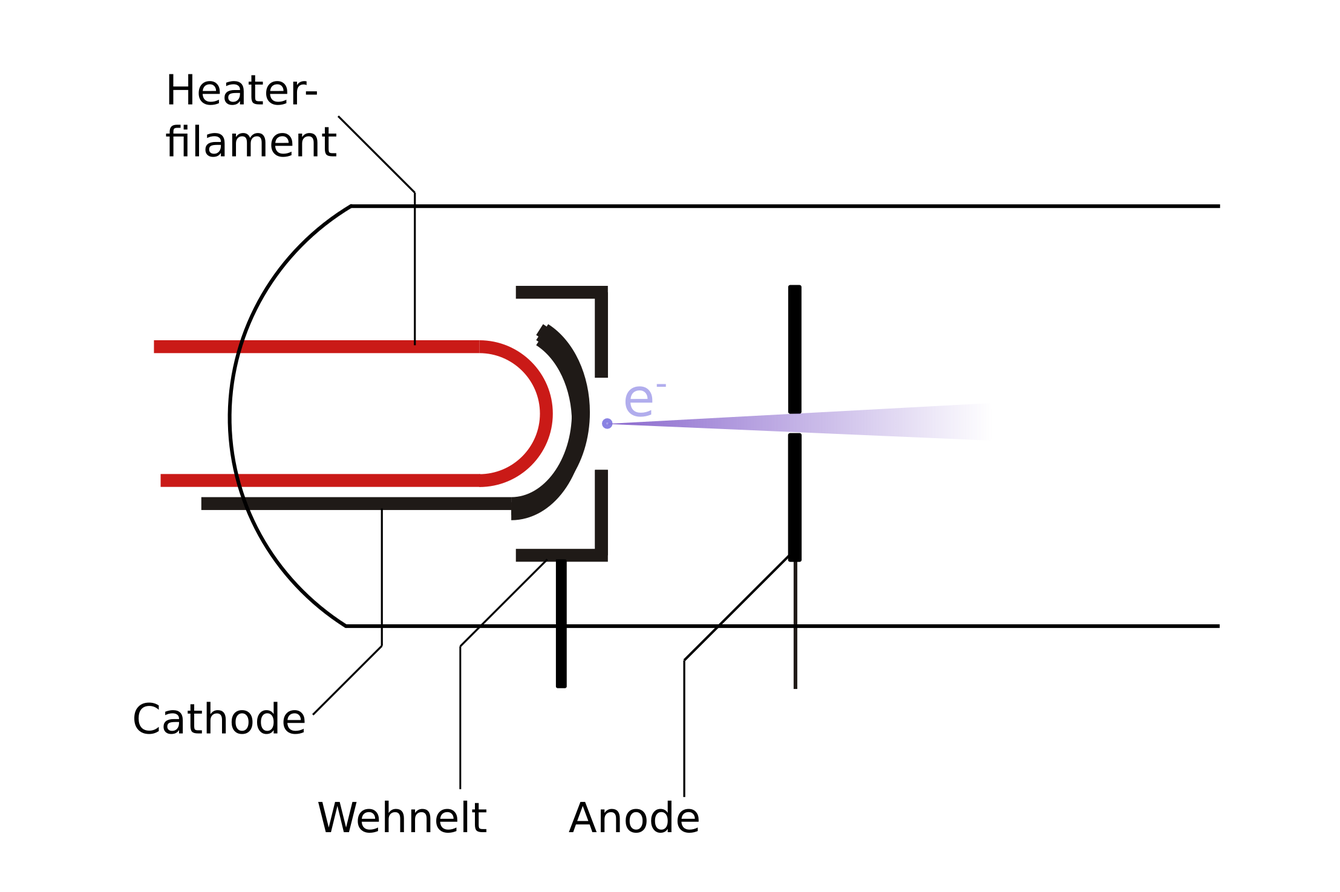
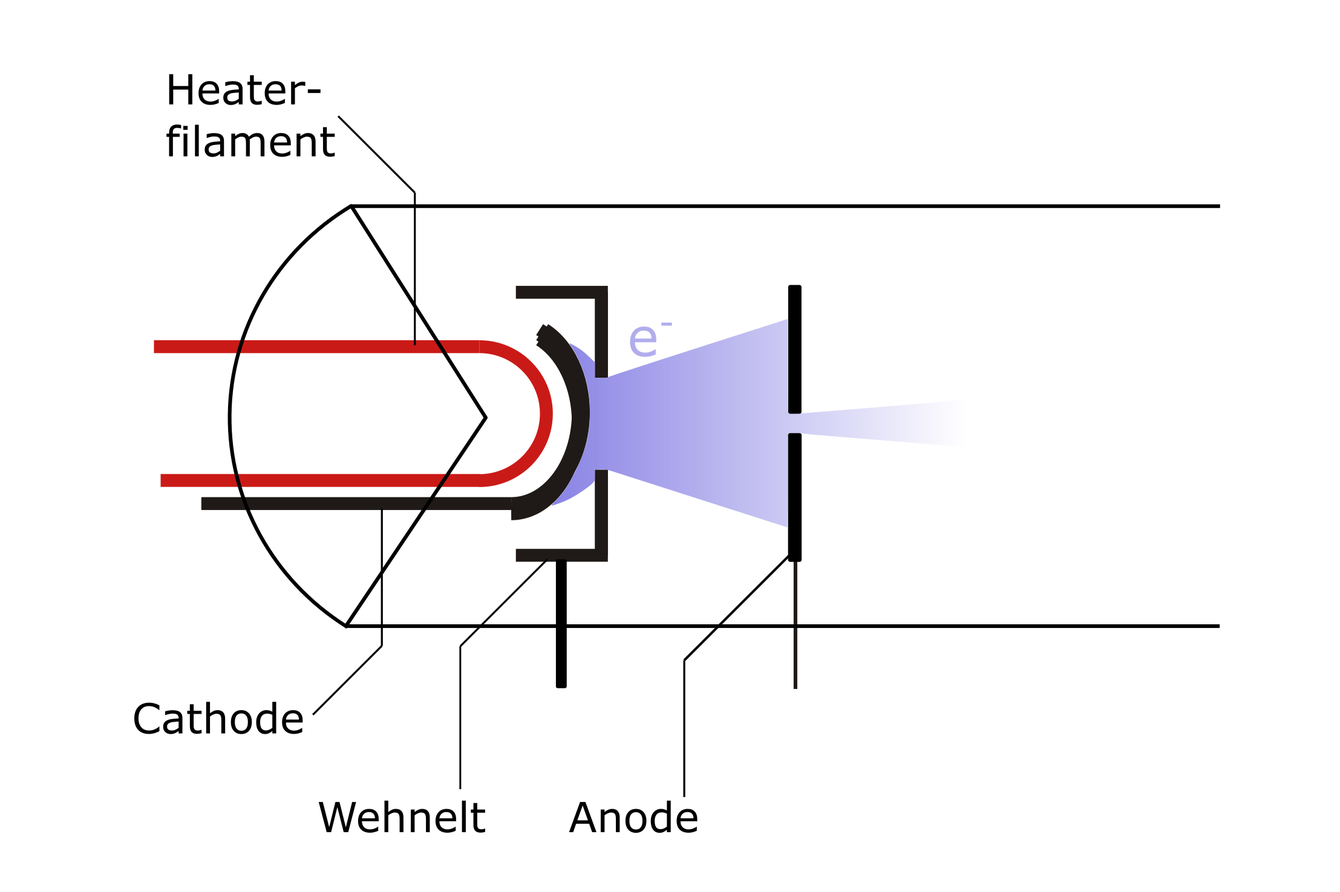
Corrections for CRT-Basics

diff --git a/Chapters/CRT-Basics/CRT-Basics.tex b/Chapters/CRT-Basics/CRT-Basics.tex
@@ -5,16 +5,14 @@
 \chapter{Cathodic Ray Tube Basics}
 \label{ch:Cathodic Ray Tube Basics}
 
-This section features a quick explanation what a CRT is and what its main components are, followed by a more detailed description on how these components are implemented in the CRT Heerlen D14-363GY, which was used in this project. It ends with a description of the important characteristics of the CRT and the requirement the theory poses on them.
-This chapter features a quick explanation what a Cathodic Ray Tube (CRT) is and what its main components are. This is followed by a more detailed description on how the individual components are implemented in our used CRT, a Heerlen D14-363GY. The chapter ends with a description of the important characteristics of the CRT and the requirement the theory poses on them.
+This chapter features a quick explanation what a Cathodic Ray Tube (CRT) is and what its main components are. This is followed by a more detailed description on how the individual components are implemented in our used CRT, a Heerlen D14-363GY. The chapter ends with a description of the important characteristics of the CRT and the requirement the theory poses on them.\correction{Thomas correction accepted}
 
 \section{Underlying Physics}
 \correction{this section is sometimes confusing and already deals with out CRT}
 
-Wikipedia states: ``The cathode-ray tube (CRT) is a vacuum tube that contains one or more electron guns and a phosphorescent screen and is used to display images. It modulates, accelerates, and deflects electron beam(s) onto the screen to create the images.''
 
 Wikipedia states: ``The cathode-ray tube (CRT) is a vacuum tube that contains one or more electron guns, while a phosphorescent screen and is used to display images. It modulates, accelerates, and deflects electron beam(s) onto the screen to create the images.''
-\suggestion{you can probably explain it in your own words better}
+\suggestion{you can probably explain it in your own words better -> maybe but I wanted some generally excepted definition (for example this one includes CRTs with multiple electron guns, which I was not aware of)}
 
 There are three vital components to accomplish this feat: the electron gun, the electron lens and the deflection plates.
 
@@ -24,12 +22,15 @@ There are three vital components to accomplish this feat: the electron gun, the 
 	\caption{Schematic of an electron gun}
 	\label{fig:electrongun}
 \end{figure}
-\correction{let e- come form cathode and not point source in mid air, cathode could be a bit smaller}
+\correction{let e- come form cathode and not point source in mid air, cathode could be a bit smaller -> Done}
 
-The electron gun generates free electrons from a cathode material, accelerates them onto an anode and thereby produces an electron beam (see \cref{fig:electrongun}). One important characteristic in the selection of a cathode material is a low work function. It denotes the amount of energy needed to extract one electron from the material. There are two ways to overcome this energy barrier in an electron gun; one can either apply a strong electric field(``field emission'', ``cold cathode'')  as sen in \cref{fig:coldcathode}. \correction{explain why it has to be a sharp tip already here since it is shown in the picture} Or one can heat the material until some electrons have enough thermal energy to overcome the energy barrier (``thermal emission'', ``hot cathode'', \cref{fig:hotcathode}).
+Thomas: The electron gun generates free electrons from a cathode material, accelerates them onto an anode and thereby produces an electron beam (see \cref{fig:electrongun}). One important characteristic in the selection of a cathode material is a low work function. It denotes the amount of energy needed to extract one electron from the material. There are two ways to overcome this energy barrier in an electron gun; one can either apply a strong electric field(``field emission'', ``cold cathode'')  as sen in \cref{fig:coldcathode}. \correction{explain why it has to be a sharp tip already here since it is shown in the picture} Or one can heat the material until some electrons have enough thermal energy to overcome the energy barrier (``thermal emission'', ``hot cathode'', \cref{fig:hotcathode}).
 
-The electron gun extracts electrons from a cathode material, accelerates them onto a perforated anode and thereby produces a free electron beam (see \cref{fig:electrongun}). One important characteristic in the selection of a cathode material is a low work function. It denotes the amount of energy needed to extract one electron from the material. There are two ways to overcome this energy barrier in an electron gun; one can either overcompensate it by applying a strong electric field (``field emission'', ``cold cathode'', \cref{fig:coldcathode}); or one can heat the material until some electrons have enough thermal energy to overcome the energy barrier (``thermal emission'', ``hot cathode'', \cref{fig:hotcathode}). For our CRT, only thermal emission is relevant, more detail on this will be added later along with the description of our cathode's design. 
-For our CRT uses a hot cathode, more detail on this will be added later along with the description of our cathode's design. 
+The electron gun generates free electrons from a cathode material, accelerates them onto an anode and thereby produces an electron beam (see \cref{fig:electrongun}). One important characteristic in the selection of a cathode material is a low work function. It denotes the amount of energy needed to extract one electron from the material. There are two ways to overcome this energy barrier in an electron gun; one can either apply a strong electric field(``field emission'', ``cold cathode'')  as seen in \cref{fig:coldcathode}. Or one can heat the material until some electrons have enough thermal energy to overcome the energy barrier (``thermal emission'', ``hot cathode'', \cref{fig:hotcathode}).
+In the case of the cold cathode, a cathode with a sharp tip is used, because  the electric field on the surface of a charged conductor is always strongest near sharp points. This causes the electrons to be emitted from the tip and makes for a very point-like electron source.
+
+
+As our CRT uses a hot cathode, more detail on this will be added later along with the description of our cathode's design. \correction{Thomas' correction accepted}
 
 \begin{figure}
 	\centering
@@ -51,22 +52,26 @@ For our CRT uses a hot cathode, more detail on this will be added later along wi
 	\label{fig:cathodes}
 \end{figure}
 
-The cathode itself is housed in a so-called Wehnelt cylinder, as the name suggests it is conducting cylinder which is set to a slightly more negative potential than the cathode itself. This part implements two features; firstly it condenses the emitted electrons, leading to a smaller spot size, i.e. making the cathode a more point-like electron source. Secondly it enables us to regulate the beam current, the more negative the Wehnelt potential is, the less electrons are emitted by the electron gun. As we make the Wehnelt potential more positive, the beam current increases and continues to rise even after it is more positive than the cathode itself. However the spot size reduction is lost in the process, along with the ability to properly focus the beam with electron optics.
-Normally the cathode itself is covered in beam direction in a so-called Wehnelt cylinder. Which is a conducting cylinder set to a slightly more negative potential than the cathode. This part implements two features; firstly it condenses the emitted electrons, leading to a smaller spot size, i.e. making the cathode a more point-like electron source. Secondly it enables us to regulate the beam current, the more negative the Wehnelt potential is, the less electrons are emitted by the electron gun. As we make the Wehnelt potential more positive, the beam current increases and continues to rise even after it is more positive than the cathode itself. However, the spot size gets increased, while the proper beam focus is lost.
 
-The electrons ,that leave the electron gun, are still divergent and need to be focused. For our \SI{2}{\kilo\electronvolt} electrons an electrostatic lens is used.  In the simples way these are cylindrically symmetrical pieces of conductor, like a ring or tube, set to an electrical potential. By combining several of them, one can (theoretically) engineer an electro-optical system with any combination of desired focal lengths $f_1$ and $f_2$. \correction{this is a strong statement I guess there are limitations to that, maybe a reference would be help full here}
+Normally the cathode itself is covered in beam direction in a so-called Wehnelt cylinder. Which is a conducting cylinder set to a slightly more negative potential than the cathode. This part implements two features; firstly it condenses the emitted electrons, leading to a smaller spot size, i.e. making the cathode a more point-like electron source. Secondly it enables us to regulate the beam current, the more negative the Wehnelt potential is, the less electrons are emitted by the electron gun. As we make the Wehnelt potential more positive, the beam current increases and continues to rise even after it is more positive than the cathode itself. However, the spot size gets increased, while the proper beam focus is lost. \correction{Thomas's correction accepted}
 
-The electrons that leave the electron gun are still divergent and need to be focused. For our \SI{2}{\kilo\electronvolt} electrons it is still possible to use an electrostatic lens. Cylindrically symmetrical pieces of conductor, like rings and tubes, can be set to an electrical potential and act as a lens for the electrons. By combining several of them, one can (theoretically) engineer an electro-optical system with any combination of desired focal lengths $f_1$ and $f_2$. The field of this system is simply governed by Laplace's equation in cylindrical coordinates:
+Thomas: The electrons, that leave the electron gun, are still divergent and need to be focused. For our \SI{2}{\kilo\electronvolt} electrons an electrostatic lens is used.  In the simples way these are cylindrically symmetrical pieces of conductor, like a ring or tube, set to an electrical potential. By combining several of them, one can (theoretically) engineer an electro-optical system with any combination of desired focal lengths $f_1$ and $f_2$. \correction{this is a strong statement I guess there are limitations to that, maybe a reference would be help full here}
+
+The electrons, that leave the electron gun, are still divergent and need to be focused. For our \SI{2}{\kilo\electronvolt} electrons an electrostatic lens is used.  In the simples way these are cylindrically symmetrical pieces of conductor, like a ring or tube, set to an electrical potential. By combining several of them, one can create the same effect as a combination of concave and convex lenses (\cite{Demtroeder3}). \correction{Yes, too strong of a statement actually}
+
 The field of this system is simply governed by Laplace's equation in 
 cylindrical coordinates:
 \begin{equation}
 	0=\dfrac{1}{r}\pdv{\phi}{r}+\pdv[2]{\phi}{r}+\pdv[2]{\phi}{z}
 \end{equation}
+
 If we take the axis of the beam to be the z-axis, the focal point position in the x-y-plane can be shifted using the two pairs of deflection plates, one for the x- and one for the y-direction. The deflection is achieved by applying a voltage between the two parallel plates. (see: \cref{fig:deflectionplate2}) By starting with an electron with kinetic energy $e \cdot U_0$ which is accelerated in x-direction by a constant force $e\cdot U_x / d$ over the extent of the plates $L$, the deflection angle is approximately \cite{Demtroeder3}:
-If we take the axis of the beam to be the z-axis, the focal point position in the x-y-plane can be shifted using two pairs of deflection plates, one for the x- and one for the y-direction. The deflection is achieved by applying a voltage between the two parallel plates. (see: \cref{fig:deflectionplate2}) For an electron with kinetic energy $e \cdot U_0$, which is accelerated in x-direction by a constant force $e\cdot U_x / d$ over the extent of the plates $L$, the deflection angle $\delta$ is approximately \cite{Demtroeder3}:
+
 \begin{equation}\label{key}
 	\delta \approx \tan(\delta) \approx \frac{U_x\cdot L}{2 U_0 \cdot d}
 \end{equation}
+
+%Ende erster Abschnitt
 
 For the measures of our CRT ($ L \approx \SI{10}{\centi\meter}$, $d \approx \SI{1}{\centi\meter}$, $U_0 \approx \SI{2}{\kilo\volt}$ and distance to screen $\approx \SI{20}{\centi\meter}$) this amounts to a deflection coefficient of around \SI{20}{\volt\per\centi\meter}, which is quite consistent with the value given in the CRT's manual.\todo[]{können die Maße stimmen?} 
 
@@ -79,10 +84,9 @@ For the measures of our CRT ($ L \approx \SI{10}{\centi\meter}$, $d \approx \SI{
 
 \section{Implementation in the Heerlen D14-363GY }
 
-This section describes how the mechanisms described above are implemented in the CRT that was used in this project: the PDS/CRT Heerlen D14-363GY. \Cref{fig:FotoCRT} shows an image of said CRT, \cref{fig:SchemeCRT} shows a schematic depiction. The cathode is not visible, as it is fixed inside the Wehnelt cylinder (1), just a few millimeters from the exit of the wehnelt cylinder the electrons pass through the perforated anode (2) they gain their full final kinetic energy over this short distance. The electrons that go through the perforation and enter the electrostatic lens, have \SI{2}{\kilo\electronvolt} and therefore move at a speed of approximately \SI{0.08}{\clight}. 
-The electrostatic lenses are realized using three conducting rings (3), that are set to the same potential but have varying radii: Each consecutive ring has a smaller radius than the previous one. 
+
 This section describes the CRT that is used in this project: PDS/CRT Heerlen D14-363GY. \Cref{fig:FotoCRT} shows an image of said CRT and \cref{fig:SchemeCRT} shows a schematic depiction. The cathode is not visible, as it is fixed inside the Wehnelt cylinder (1), just a few millimeters from the exit of the Wehnelt cylinder the electrons pass through the hole in the anode (2), they gain their full kinetic energy over this short distance. The electrons that go through the hole and enter the electrostatic lens, have \SI{2}{\kilo\electronvolt} and therefore move at a speed of approximately \SI{0.08}{\clight}. 
-The electrostatic lenses are realized using three conducting rings (3), that are set to the same potential but have varying radii: Each consecutive ring has a smaller radius than the previous one.
+The electrostatic lenses are realized using three conducting rings (3), that are set to the same potential but have varying radii: Each consecutive ring has a smaller radius than the previous one. \correction{Thomas' suggestion excepted}
 
 \begin{figure}
 	\centering
@@ -104,19 +108,22 @@ The electrostatic lenses are realized using three conducting rings (3), that are
 \end{figure}
 
 
-Between the electrostatic lens and the deflection plates, there is another aperture (4), which is internally connected to the anode and is thereby kept at the same potential. In our Setup, the deflection plates are not simply parallel but are shaped like funnels (5,7), between the two pairs of deflection plates, we have the final aperture (6), this ones potential can be regulated separately (usually it's on the same potential as the anode) 
 Between the electrostatic lens and the deflection plates, there is another aperture (4), which is internally connected to the anode and is thereby kept at the same potential. In our Setup, the deflection plates are not simply parallel but are shaped like funnels (5,7), between the two pairs of deflection plates, we have the final aperture (6). Its potential can be regulated separately (usually it's on the same potential as the anode) 
 
-It is connected to the aquadag coating inside the glass envelope and prevents charge up and image distortion. 
+
 Finally the beam hits the phosphorous-coated screen which fluoresces on electron impact.
-It is connected to the aquadag  \suggestion{ maybe expplain here what this is} coating inside the glass envelope and prevents charge building up, that could lead to image distortions. 
+
+It is connected to the aquadag \footnote{A conductive coating used in CRTs, it consists of graphite particles dispersd in water} coating inside the glass envelope and prevents charge building up, that could lead to image distortions. 
+\suggestion{Added description for Aquadag as suggested}
 Finally the beam hits the phosphorous-coated screen, which fluoresces on electron impact.
 
 \subsection{The Cathode}
 
-As already mentioned, we are using a hot cathode, where electrons are exited thermally until some of them acquire enough energy to leave the material. Compared to cold cathodes which work by field emission, this leads to a broader energy distribution. In fields like electron microscopy, where a high resolution is the goal, this in undesirable as it leads to some degree of chromatic aberration in the electron optics; for our purposes, this should not be a problem. On the other hand, hot cathodes normally allow for higher current densities, which is very important to us. The  electron current from this kind of emission is described by \cite[chp 3.2.3]{Whitaker}: 
-As already mentioned, we are using a hot cathode, where electrons are thermally exited  to leave the material. Compared to cold cathodes which work by field emission, this leads to a broader energy distribution. For electron microscopy, where a high resolution is the goal, this in undesirable, as it leads to some degree of chromatic aberration in the electron optics; for our purposes, this should not be a problem. On the other hand, hot cathodes normally allow for higher current densities, which is very important to us \suggestion{mention why it is important
+ 
+Thomas: As already mentioned, we are using a hot cathode, where electrons are thermally exited  to leave the material. Compared to cold cathodes which work by field emission, this leads to a broader energy distribution. For electron microscopy, where a high resolution is the goal, this in undesirable, as it leads to some degree of chromatic aberration in the electron optics; for our purposes, this should not be a problem. On the other hand, hot cathodes normally allow for higher current densities, which is very important to us \suggestion{mention why it is important
 }. The  electron current by thermal emission is described by \cite[chp 3.2.3]{Whitaker}: 
+
+As already mentioned, we are using a hot cathode, where electrons are thermally exited  to leave the material. Compared to cold cathodes which work by field emission, this leads to a broader energy distribution. For electron microscopy, where a high resolution is the goal, this in undesirable, as it leads to some degree of chromatic aberration in the electron optics; for our purposes, this should not be a problem. On the other hand, hot cathodes normally allow for higher current densities. This is very important to us because a high current density allows for a high amplitude of the beam's dipole radiation and therefore a strong coupling to the potassium atoms. The  electron current by thermal emission is described by \cite[chp 3.2.3]{Whitaker}:
 
 \begin{equation}\label{eq:thermionic_current}
 I=A\cdot T^2 \cdot e^{-b/T}
@@ -129,18 +136,18 @@ The cathode from one of our Heerlen D14-363GY-tubes has been removed and examine
 \suggestion{in our ONEnote are some SEM pictures of the cathode}
 %add figure \todo{insert SEM image}
 
-The ``Power Vacuum Tubes Handbook'' \cite[chp 3.5.2.1]{Whitaker} describes a typical oxide cathode as a coating of barium and strontium oxides on a structure made from nickel alloys. Nickel is chosen for its strength and toughness, which it retains even at high temperatures. These cathodes are normally made by coating a case structure with a mixture of barium and strontium carbonates (typically \SI{60}{\percent} Ba and \SI{40}{\percent} Sr), suspended in a binder material and then baking the structure, causing the carbonates to be reduced to oxides.
-The ``Power Vacuum Tubes Handbook'' \cite[chp 3.5.2.1]{Whitaker} describes a typical oxide cathode has a coating of barium and strontium oxides on a structure made from nickel alloys. Nickel is chosen for its strength and toughness, which it retains even at high temperatures. These cathodes are normally made by coating a case structure with a mixture of barium and strontium carbonates (typically \SI{60}{\percent} Ba and \SI{40}{\percent} Sr), suspended in a binder material and then baking the structure, causing the carbonates to be reduced to oxides.
+The ``Power Vacuum Tubes Handbook'' \cite[chp 3.5.2.1]{Whitaker} describes a typical oxide cathode as a coating of barium and strontium oxides on a structure made from nickel alloys. Nickel is chosen for its strength and toughness, which it retains even at high temperatures. These cathodes are normally made by coating a case structure with a mixture of barium and strontium carbonates (typically \SI{60}{\percent} Ba and \SI{40}{\percent} Sr), suspended in a binder material and then baking the structure, causing the carbonates to be reduced to oxides. \suggestion{left unchanged, I think "as" is fine, as the coating is the part that emitts the electrons}
 
-These metal oxide cathodes normally operate at \SIrange{700}{820}{\celsius} and are capable of average emission densities of \SIrange{100}{500}{\milli\ampere\per\centi\meter\squared}. Still higher peak emissions are possible for shorter periods of time; as already mentioned, one of the advantages of this type of cathode is its high emission current capability compared to cathodes made from other materials. Downsides to this cathode type are its greater susceptibility to so-called oxygen poisoning and to ion bombardment. The literature therefore recommends to avoid prolonged exposure to oxygen. Oxygen poisoning is the process in which oxygen adsorbs onto the cathode and increases its work function, effectively reducing the ability to emit electrons. 
-Also the material from the oxide cathode will evaporate during the tube's lifetime and will travel to other parts of the tube, adsorbing to electron optics parts and turning them into additional emitters. The literature (also from \cite[chp 3.5.2.1]{Whitaker}) therefore also advises against exceeding the design value for the heater voltage, as this reduces the lifetime of the cathode significantly. (However during the course of our project, we did drive the cathode with higher heater voltages on various occasions in order to increase the available beam current.)
+
+
 These metal oxide cathodes normally operate at \SIrange{700}{820}{\celsius} and are capable of average emission densities of \SIrange{100}{500}{\milli\ampere\per\centi\meter\squared}. Higher peak emissions are possible for shorter periods of time. As already mentioned, one of the advantages of this type of cathode is its high emission current capability compared to cathodes made from other materials. Downsides to this cathode type are its greater susceptibility to so-called oxygen poisoning and to ion bombardment. The literature therefore recommends to avoid prolonged exposure to oxygen. Oxygen poisoning is the process in which oxygen adsorbs onto the cathode and increases its work function, effectively reducing the ability to emit electrons. 
-Also the material from the oxide cathode will evaporate during the tube's lifetime and will travel to other parts of the tube, adsorbing to electron optics parts and turning them into additional emitters. The literature (\cite[chp 3.5.2.1]{Whitaker}) therefore, also advises against exceeding the design value for the heater voltage, as this reduces the lifetime of the cathode significantly. (However, during the course of our project, we did drive the cathode with higher heater voltages on various occasions in order to increase the available beam current.) \correction{with what result?}
+Also the material from the oxide cathode will evaporate during the tube's lifetime and will travel to other parts of the tube, adsorbing to electron optics parts and turning them into additional emitters. The literature (\cite[chp 3.5.2.1]{Whitaker}) therefore, also advises against exceeding the design value for the heater voltage, as this reduces the lifetime of the cathode significantly. (However, during the course of our project, we did drive the cathode with higher heater voltages on various occasions in order to increase the available beam current. ) \correction{with what result?}
+
+Also the material from the oxide cathode will evaporate during the tube's lifetime and will travel to other parts of the tube, adsorbing to electron optics parts and turning them into additional emitters. The literature (\cite[chp 3.5.2.1]{Whitaker}) therefore, also advises against exceeding the design value for the heater voltage, as this reduces the lifetime of the cathode significantly. (However, during the course of our project, we did drive the cathode with higher heater voltages on various occasions in order to increase the available beam current. ?????? ) \correction{with what result?}
 
 \subsection{Cathode Layout}
 
-\Cref{fig:cathodelayout} shows how metal oxide cathodes for CRTs typically look; the depiction agrees very well with the layout of our cathode. On the image we see the cathode cylinder, which corresponds to the nickel support structure mentioned above. It is shaped into a cup, i.e. the cylinder is hollow and open on one side, where the heater filament (shaped into a heater coil) is inserted. The oxide disk, from where the electrons are emitted, is baked onto the top of the cathode cylinder. The cathode cylinder is mounted on an isolating support structure and inserted into the Wehnelt cylinder, which is called ``grid cup'' in the drawing. 
-\Cref{fig:cathodelayout} shows how metal oxide cathodes for CRTs typically look. The depiction agrees very well with the layout of our cathode. On the image we see the cathode cylinder, which corresponds to the nickel support structure mentioned above. It is shaped into a cup, in which the heater filament (shaped into a coil) is inserted. The oxide disk, from where the electrons are emitted, is baked onto the top of the cathode cylinder. The cathode cylinder is mounted on an isolating support structure and inserted into the Wehnelt cylinder, which is called ``grid cup'' in the drawing. 
+\Cref{fig:cathodelayout} shows how metal oxide cathodes for CRTs typically look. The depiction agrees very well with the layout of our cathode. On the image we see the cathode cylinder, which corresponds to the nickel support structure mentioned above. It is shaped into a cup, in which the heater filament (shaped into a coil) is inserted. The oxide disk, from where the electrons are emitted, is baked onto the top of the cathode cylinder. The cathode cylinder is mounted on an isolating support structure and inserted into the Wehnelt cylinder, which is called ``grid cup'' in the drawing. \suggestion(Thomas' suggestions accepted)
   
 
 \begin{figure}
